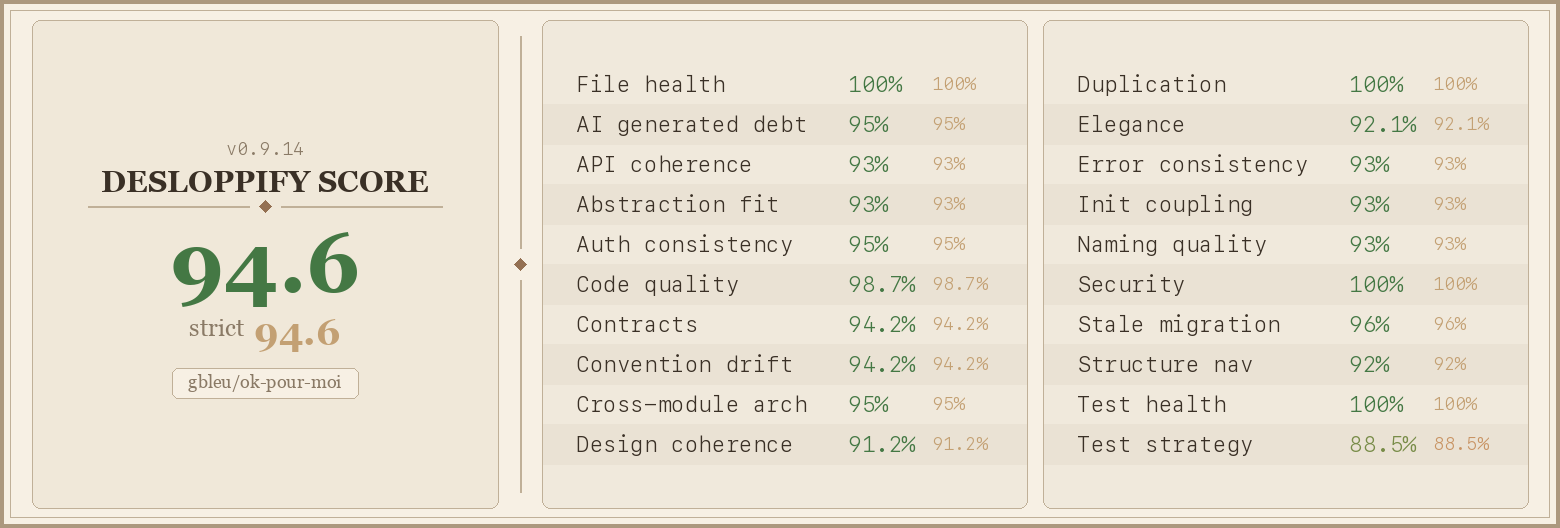
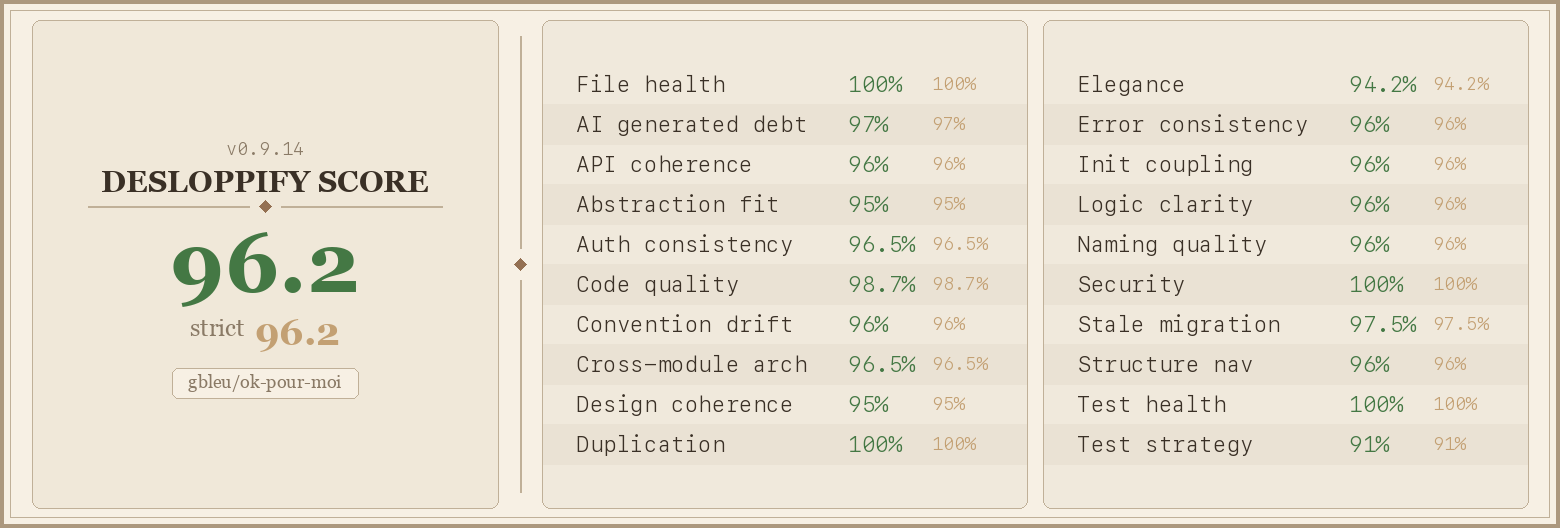
Improve code elegance and error handling (desloppify strict 96.2)
Decompose closeCompose into named helpers, inline sendAsyncResponse,
document serial processing constraint, refactor package.ts to use
throw instead of console.error+return.

diff --git a/scripts/package.ts b/scripts/package.ts
@@ -21,25 +21,14 @@ function getVersion(): string {
   }
 }
 
-async function createPackage(): Promise<boolean> {
+async function createPackage(): Promise<void> {
   const distDir = "dist";
 
   if (!existsSync(distDir)) {
-    console.error("❌ Error: dist/ directory not found. Run 'bun run build' first.");
-    return false;
+    throw new Error("dist/ directory not found. Run 'bun run build' first.");
   }
 
-  let version: string;
-  try {
-    version = getVersion();
-  } catch (error) {
-    if (error instanceof Error) {
-      console.error(error.message, error.cause);
-    } else {
-      console.error(error);
-    }
-    return false;
-  }
+  const version = getVersion();
   const zipFilename = `ok-pour-moi-v${version}.zip`;
 
   await $`rm -f ${zipFilename}`.quiet();
@@ -48,29 +37,28 @@ async function createPackage(): Promise<boolean> {
     await $`cd dist && zip -r ../${zipFilename} . -x "*.DS_Store" "*.map" "*/.gitkeep" "Thumbs.db"`.quiet();
 
   if (result.exitCode !== 0) {
-    console.error("Error creating ZIP file");
-    return false;
+    throw new Error("Error creating ZIP file");
   }
 
   const listResult = await $`unzip -l ${zipFilename}`.text();
 
   if (!listResult.includes(" manifest.json")) {
-    console.error("manifest.json not at root of ZIP");
-    return false;
+    throw new Error("manifest.json not at root of ZIP");
   }
 
   const requiredDirs = ["background/", "content/", "options/", "popup/"];
   const missingDirs = requiredDirs.filter((dir) => !listResult.includes(dir));
   if (missingDirs.length > 0) {
-    console.error(`Missing directories: ${missingDirs.join(", ")}`);
-    return false;
+    throw new Error(`Missing directories: ${missingDirs.join(", ")}`);
   }
 
   const sizeMb = statSync(zipFilename).size / (1024 * 1024);
   console.log(`${zipFilename} (${sizeMb.toFixed(2)} MB) — ready for Chrome Web Store`);
-
-  return true;
 }
 
-const success = await createPackage();
-process.exit(success ? 0 : 1);
+try {
+  await createPackage();
+} catch (error) {
+  console.error(error instanceof Error ? error.message : error);
+  process.exit(1);
+}

diff --git a/src/content/outlook-compose-actions.ts b/src/content/outlook-compose-actions.ts
@@ -151,20 +151,33 @@ export async function saveDraft(): Promise<void> {
   await sleep(TIMING.CONTENT_LOAD);
 }
 
+async function dismissSaveDialog(): Promise<void> {
+  const dialog = document.querySelector('[role="dialog"]');
+  if (!dialog) {
+    return;
+  }
+  const cancelBtn = [...dialog.querySelectorAll("button")].find((btn: HTMLButtonElement) =>
+    (btn.textContent ?? "").toLowerCase().includes("cancel"),
+  );
+  if (cancelBtn) {
+    simulateClick(cancelBtn);
+    await sleep(TIMING.UI_SETTLE);
+  }
+}
+
+async function waitForComposeClose(): Promise<void> {
+  for (let idx = 0; idx < TIMING.COMPOSE_CLOSE_MAX_POLLS; idx += 1) {
+    if (!document.querySelector('[role="textbox"][contenteditable="true"]')) {
+      return;
+    }
+    await sleep(TIMING.COMPOSE_CLOSE_INTERVAL);
+  }
+}
+
 export async function closeCompose(): Promise<void> {
   simulateKeyPress("Escape");
   await sleep(TIMING.UI_SETTLE);
-
-  const dialog = document.querySelector('[role="dialog"]');
-  if (dialog) {
-    const cancelBtn = [...dialog.querySelectorAll("button")].find((btn: HTMLButtonElement) =>
-      (btn.textContent ?? "").toLowerCase().includes("cancel"),
-    );
-    if (cancelBtn) {
-      simulateClick(cancelBtn);
-      await sleep(TIMING.UI_SETTLE);
-    }
-  }
+  await dismissSaveDialog();
 
   const homeTab = findByRole("tab", { name: "Home" });
   if (homeTab) {
@@ -172,10 +185,5 @@ export async function closeCompose(): Promise<void> {
     await sleep(TIMING.UI_SETTLE);
   }
 
-  for (let idx = 0; idx < TIMING.COMPOSE_CLOSE_MAX_POLLS; idx += 1) {
-    if (!document.querySelector('[role="textbox"][contenteditable="true"]')) {
-      break;
-    }
-    await sleep(TIMING.COMPOSE_CLOSE_INTERVAL);
-  }
+  await waitForComposeClose();
 }

diff --git a/src/background/service-worker.ts b/src/background/service-worker.ts
@@ -40,18 +40,6 @@ export async function signPdfFromRequest(request: SignPdfRequest): Promise<SignP
   }
 }
 
-function sendAsyncResponse(
-  promise: Promise<SignPdfResponse>,
-  sendResponse: (response: SignPdfResponse) => void,
-): void {
-  promise.then(sendResponse).catch((error: unknown) => {
-    sendResponse({
-      error: getErrorMessage(error),
-      success: false,
-    });
-  });
-}
-
 chrome.runtime.onMessage.addListener(
   // eslint-disable-next-line typescript-eslint/strict-void-return -- Chrome onMessage requires boolean return to keep channel open
   (
@@ -75,7 +63,11 @@ chrome.runtime.onMessage.addListener(
       return false;
     }
 
-    sendAsyncResponse(signPdfFromRequest(message.payload), sendResponse);
+    signPdfFromRequest(message.payload)
+      .then(sendResponse)
+      .catch((error: unknown) => {
+        sendResponse({ error: getErrorMessage(error), success: false });
+      });
     return true;
   },
 );

diff --git a/src/content/outlook-compose.ts b/src/content/outlook-compose.ts
@@ -22,6 +22,7 @@ export interface DraftResult {
   readonly successCount: number;
 }
 
+// Sequential: Outlook allows only one compose window at a time
 export async function prepareDrafts(
   items: readonly SignedPdfItem[],
   replyMessage: string,
